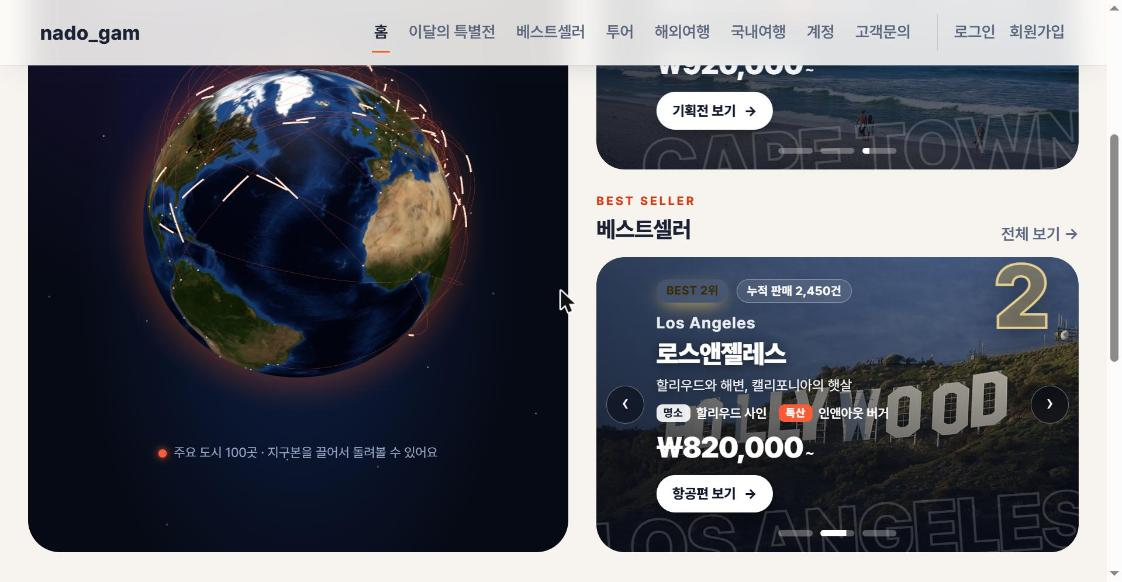
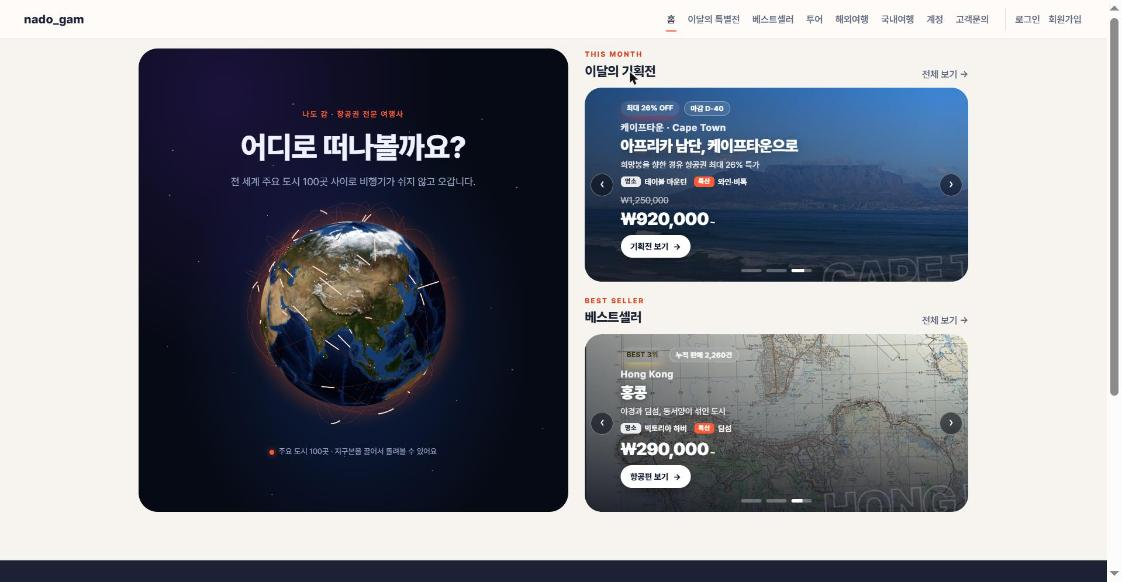
문서(README): 메인 캡처가 잘리지 않게 다시 촬영

diff --git a/README.md b/README.md
@@ -45,7 +45,7 @@
 | ![해외 여행지](docs/screenshots/03-travel-list.jpg) | ![여행지 상세](docs/screenshots/04-travel-detail.jpg) |
 | 해외 여행지 98곳 카드 (대표 관광지 사진 · 명소/특산 · 정렬) | 여행지 상세와 항공편 선택 단계 |
 | ![메인 캐로셀](docs/screenshots/02-home-carousel.jpg) | ![투어 상세](docs/screenshots/05-tour-detail.jpg) |
-| 메인의 지구본과 베스트셀러 캐로셀(기획전·베스트셀러는 오른쪽에 나란히) | 투어 상세(기간별 옵션, 인천 출발 노선) |
+| 메인의 캐로셀이 다음 장으로 넘어간 모습(기획전·베스트셀러는 자동으로 넘어감) | 투어 상세(기간별 옵션, 인천 출발 노선) |
 | ![국내여행](docs/screenshots/06-domestic.jpg) | ![투어 목록](docs/screenshots/07-tour-list.jpg) |
 | 국내여행 10개 도시 | 투어 목록: 대륙·국가 필터와 반분할 카드(여행지 전경 + 테마 사진) |
 
